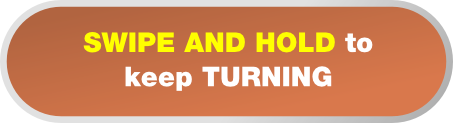
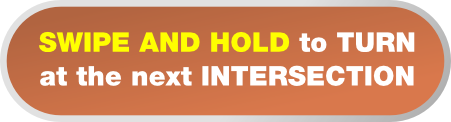
Updates artwork, adds interactive layer to rotate all pickups against camera rotation

Changed region(s): [[0.0621, 0.2459, 0.9313, 0.4426], [0.0621, 0.5164, 0.9313, 0.7623]]

diff --git a/CharacterTests/AMBLevelScene.m b/CharacterTests/AMBLevelScene.m
@@ -148,7 +148,7 @@ typedef enum {
         
         _tutorialMode = tut;
         
-        _renderTraffic = 0;
+        _renderTraffic = 1;
 
         self.physicsWorld.contactDelegate = self;
 
@@ -236,14 +236,20 @@ typedef enum {
     
         
         // tutorial
-        
-        _tutorialOverlay = [AMBTutorial tutorialOverlay];
-        _tutorialOverlay.position = CGPointMake(0, 200);
-        [self addChild:_tutorialOverlay];
-        [_tutorialOverlay beginTutorialAfterDelayOf:0.75];
+        if (_tutorialMode) {
+            _tutorialOverlay = [AMBTutorial tutorialOverlay];
+            _tutorialOverlay.position = CGPointMake(0, 200);
+            [self addChild:_tutorialOverlay];
+            [_tutorialOverlay beginTutorialAfterDelayOf:0.75];
+            
+            // _mapLayerTrafficAI.alpha = 0; // hide the traffic
+            
+        }
 
         // start clock
-        [_gameClock startTimer];
+        if (!_tutorialMode) {
+            [_gameClock startTimer];
+        }
         
         
     }
@@ -253,6 +259,10 @@ typedef enum {
 
 - (void)didCompleteTutorial {
     // do things like turn traffic on, start timer, etc.
+    [_gameClock startTimer];
+    
+//    SKAction *fadeIn = [SKAction fadeInWithDuration:2.0];
+//    [_mapLayerTrafficAI runAction:fadeIn];
     
 }
 
@@ -307,10 +317,9 @@ typedef enum {
 
 
 
-- (void)addMovingCharacterToTileMap:(AMBMovingCharacter *)character {
+- (void)addMovingCharacter:(AMBMovingCharacter *)character toLayer:(SKNode *)layer {
     // encapsulated like this because we need to make sure levelScene is set on all the player/traffic nodes
-    [_mapLayerRoad addChild:character]; // changed from _tilemap to _mapLayerRoad to keep things consistent between the sprites
-
+    [layer addChild:character];
     character.levelScene = self;
 }
 
@@ -319,7 +328,7 @@ typedef enum {
     _player = [[AMBPlayer alloc] initWithSprite:vehicleType];
     _player.position = CGPointMake(_playerSpawnPoint.x, _playerSpawnPoint.y); // TODO: don't hardcode this offset!
 
-    [self addMovingCharacterToTileMap:_player];
+    [self addMovingCharacter:_player toLayer:_mapLayerRoad];
 #if DEBUG
     NSLog(@"adding player at %1.0f,%1.0f",_playerSpawnPoint.x,_playerSpawnPoint.y);
 #endif
@@ -614,7 +623,7 @@ typedef enum {
     AMBTrafficVehicle *traffic = [AMBTrafficVehicle createVehicle:VehicleTypeSedan withSpeed:VehicleSpeedSlow atPoint:pos withRotation:rotation shouldTurnAtIntersections:intersections];
 
     traffic.name = @"real_traffic";
-    [self addMovingCharacterToTileMap:traffic];
+    [self addMovingCharacter:traffic toLayer:_mapLayerTrafficAI];
     [_trafficVehicles addObject:traffic];
     
 
@@ -622,6 +631,16 @@ typedef enum {
 
 - (void)levelWithTilemap:(NSString *)tilemapFile {
     _tilemap = [self tileMapFromFile:tilemapFile];
+    
+    // traffic layer
+    _mapLayerTrafficAI = [SKNode node];
+    [_tilemap addChild:_mapLayerTrafficAI];
+    
+    
+    // "interactives" layer. fuel, invincibility, and patients - anything that needs to rotate against the camera's rotation
+    _mapLayerInteractives = [SKNode node];
+    [_tilemap addChild:_mapLayerInteractives];
+    
     
     if (_tilemap) {
         // set up the layers/groups
@@ -1013,6 +1032,12 @@ typedef enum {
     CGPoint cameraPositionInWorldNode = [_worldNode convertPoint:node.position fromNode:node.parent];
     node.parent.position = CGPointMake(node.parent.position.x - cameraPositionInWorldNode.x,
                                        node.parent.position.y - cameraPositionInWorldNode.y);
+}
+
+- (void)rotateInteractives:(CGFloat)degrees {
+    for (SKNode *child in [_mapLayerInteractives children]) {
+        child.zRotation = DegreesToRadians(degrees);
+    }
 }
 
 

diff --git a/CharacterTests/AMBLevelScene.h b/CharacterTests/AMBLevelScene.h
@@ -21,6 +21,8 @@
 #pragma Properties - Map
 @property (readonly, nonatomic) JSTileMap *tilemap; // the tilemap for this level
 @property (readonly, nonatomic) TMXLayer *mapLayerRoad; // road layer and characters
+@property (readonly, nonatomic) SKNode *mapLayerTrafficAI;
+@property (readonly, nonatomic) SKNode *mapLayerInteractives; // anything that needs to remain "upright", rotated against the camera's rotation
 @property (readonly, nonatomic) TMXLayer *mapLayerScenery; // for buildings, grass, etc.
 @property (readonly, nonatomic) TMXLayer *mapLayerTraffic; // for placement of traffic - will be hidden during gameplay
 @property SKSpriteNode *miniMap; // the minimap!
@@ -66,6 +68,7 @@
 /** Called when the tutorial ends. Performs operations to the scene which make it "playable." */
 - (void)didCompleteTutorial;
 
+- (void)rotateInteractives:(CGFloat)degrees;
 
 
 

diff --git a/CharacterTests/AMBSpawner.m b/CharacterTests/AMBSpawner.m
@@ -98,7 +98,7 @@
     
     AMBLevelScene *__weak owningScene = [self characterScene]; // declare a reference to the scene as weak, to prevent a reference cycle. Inspired by animationDidComplete in Adventure.
     
-    [objectToSpawn addObjectToNode:[owningScene mapLayerRoad] atPosition:self.position];
+    [objectToSpawn addObjectToNode:[owningScene mapLayerInteractives] atPosition:self.position];
 
     // FUEL SPAWN
     if ([objectToSpawn isKindOfClass:[AMBPowerup class]]) {

diff --git a/CharacterTests/AMBMovingCharacter.m b/CharacterTests/AMBMovingCharacter.m
@@ -287,6 +287,7 @@ static const int TILE_LANE_WIDTH = 32;
 
                         
                         [self.levelScene.camera rotateByAngle:degrees];
+                        [self.levelScene rotateInteractives:degrees];
                         [self.levelScene.tutorialOverlay playerDidPerformEvent:PlayerEventTurnCorner]; // tutorial event
     #if DEBUG_PLAYER_CONTROL
                         

diff --git a/CharacterTests/AMBTimer.h b/CharacterTests/AMBTimer.h
@@ -21,6 +21,7 @@
  */
 
 typedef enum {
+    AMBTimerStateIdle, // the default
     AMBTimerStateActive,
     AMBTimerStatePaused,
     AMBTimerStateEmpty
